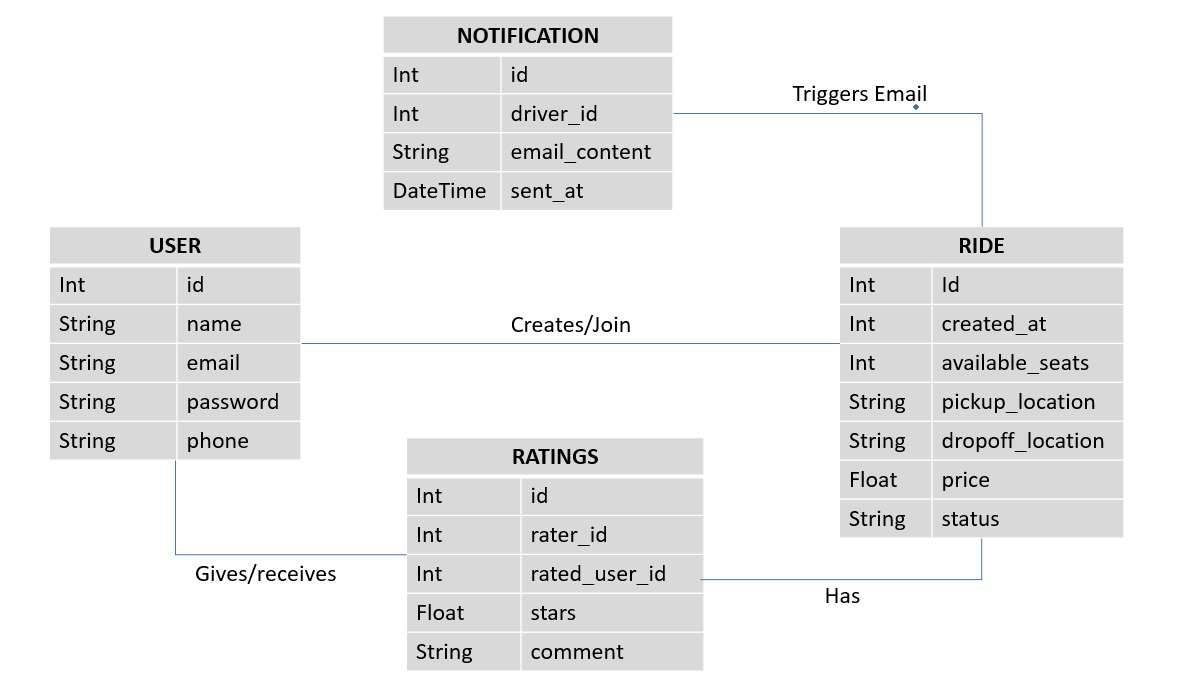
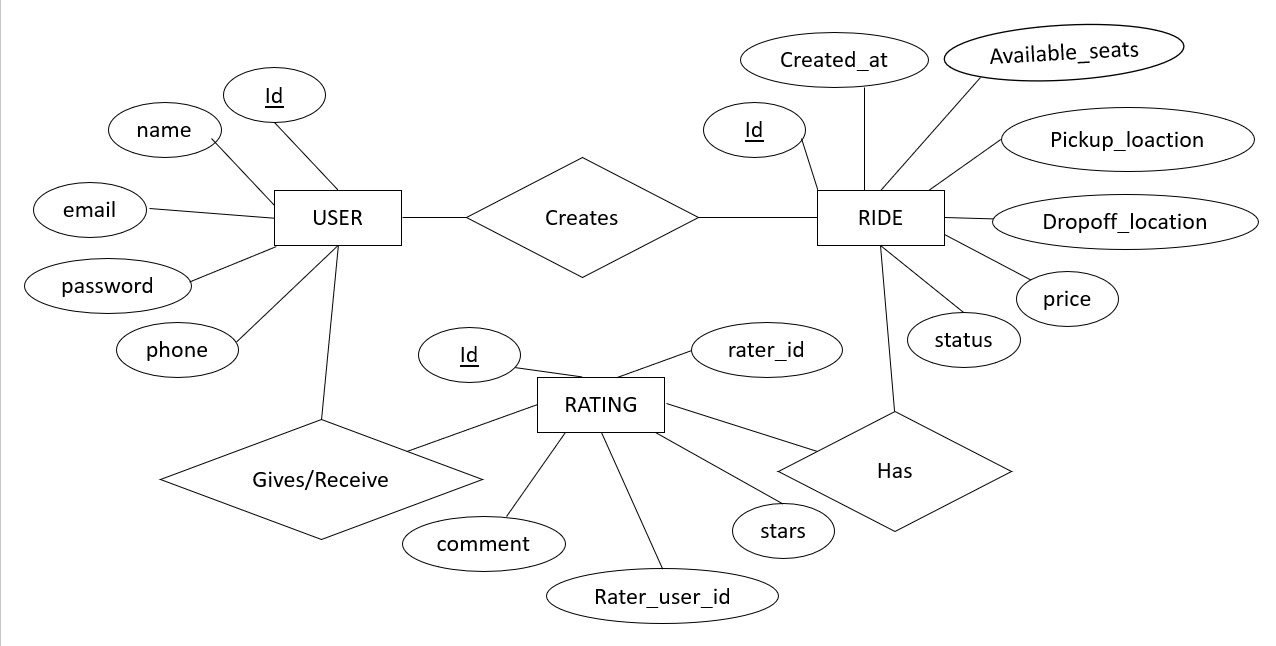
documentation

diff --git a/README.md b/README.md
@@ -68,7 +68,7 @@ Atlan Goods Application backend is built to handle complex logistics operations 
 
 ## Documentation
 
-[Please find documentation about the project here](https://drive.google.com/file/d/1GM4MLy3IFLEc0v61Pi92kl1rxQlHBags/view?usp=sharing)
+[Please find documentation about the project here](https://drive.google.com/file/d/16-UvqLvzSmzlCmIVDwLKxY8XhZjm9YUk/view?usp=sharing)
 
 ## Diagrams
 
@@ -76,6 +76,9 @@ Atlan Goods Application backend is built to handle complex logistics operations 
 
 <p align="center">
   <img src="/diagrams/er.jpg" alt="ER Diagram" />
+</p>
+<p align="center">
+  <img src="/diagrams/Tables.jpg" alt="Tables" />
 </p>
 
 ### Flow Diagram
